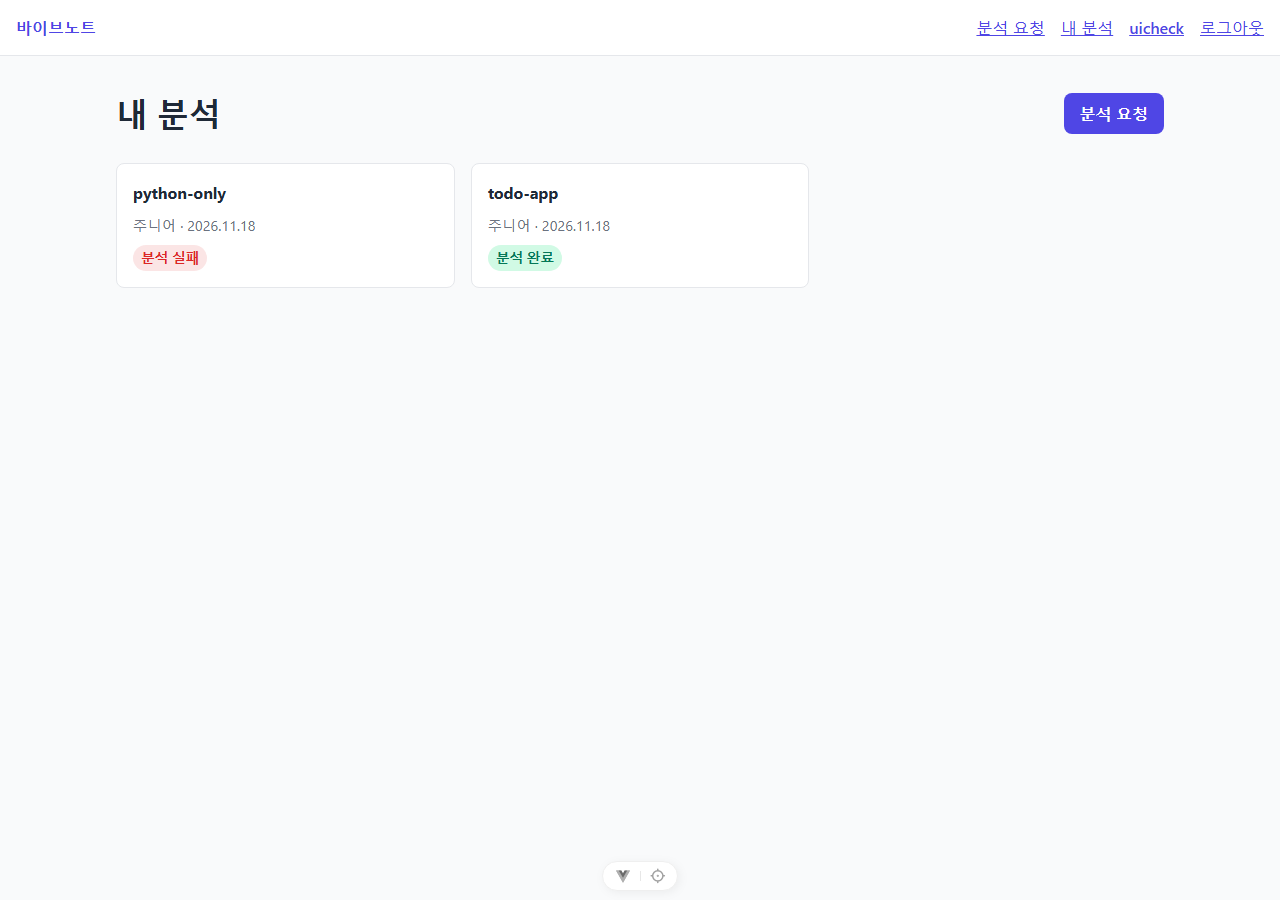
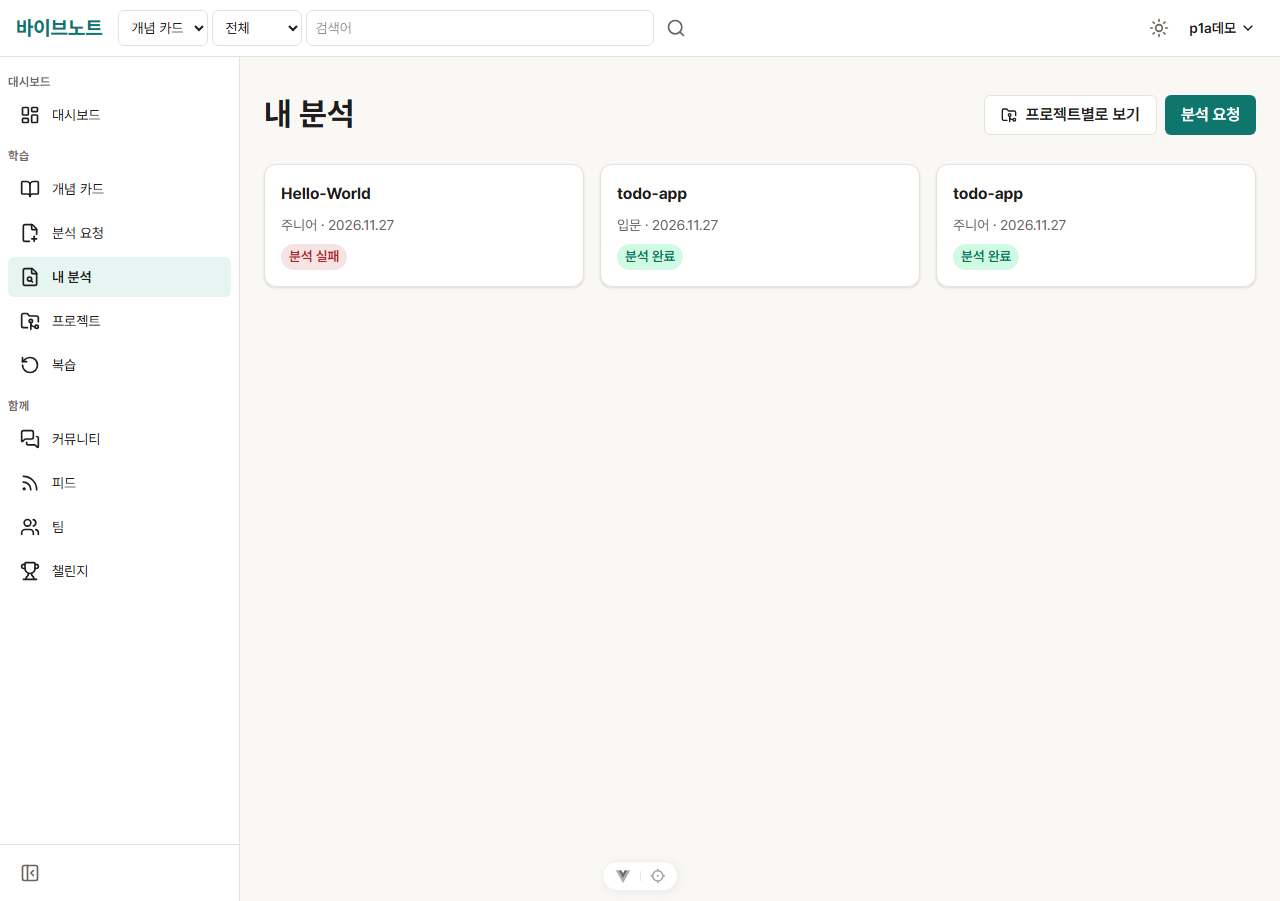
docs(P-1a): 화면 설계서 스크린샷 SC-25·26·SC-05·06·07 (ui-verifier)

diff --git a/docs/산출물/06-화면설계서.md b/docs/산출물/06-화면설계서.md
@@ -212,6 +212,7 @@ flowchart LR
 | <img src="screens/SC-05-request-desktop.png" width="480"> | <img src="screens/SC-05-request-mobile.png" width="200"> |
 | <img src="screens/SC-05-request-url-desktop.png" width="480"> | <img src="screens/SC-05-request-url-mobile.png" width="200"> |
 | <img src="screens/SC-05-request-gms-desktop.png" width="480"> | <img src="screens/SC-05-request-gms-mobile.png" width="200"> |
+| <img src="screens/SC-05-request-project-desktop.png" width="480"> (저장소 프로젝트 새 버전 `?projectId=`, P-1a) | <img src="screens/SC-05-request-project-mobile.png" width="200"> |
 
 ### SC-06 내 분석 목록 (`/analyses`, F-05a · 공개 배지·메모 F-19)
 
@@ -269,6 +270,7 @@ flowchart LR
 | 다른 회원 열람 | <img src="screens/SC-07-public-view-desktop.png" width="480"> | <img src="screens/SC-07-public-view-mobile.png" width="200"> |
 | SC-06 공개 배지·메모 | <img src="screens/SC-06-list-public-desktop.png" width="480"> | <img src="screens/SC-06-list-public-mobile.png" width="200"> |
 | 참여 중인 챌린지 (#211) | <img src="screens/SC-07-challenge-progress-desktop.png" width="480"> | <img src="screens/SC-07-challenge-progress-mobile.png" width="200"> |
+| 프로젝트·버전 링크 (P-1a AC16, Tailwind 이전 뒤) | <img src="screens/SC-07-project-link-desktop.png" width="480"> | <img src="screens/SC-07-project-link-mobile.png" width="200"> |
 
 ### SC-07 분석 결과 — 구조 탭 (`/analyses/:id?tab=structure`, F-21a)
 
@@ -784,6 +786,11 @@ flowchart LR
 - 상태별 UI: 로딩 / 빈 목록 "아직 분석한 프로젝트가 없어요" + "첫 분석 요청하기"(SC-05) / 에러는 서버 문구 + "다시 시도"
 - 동작: 카드를 누르면 SC-26. 진입은 메뉴 학습 > "프로젝트"(옆 메뉴·드로어)와 SC-06 "프로젝트별로 보기"
 - 모바일: 카드 한 열(640px 이상 두 열, 1024px 이상 세 열)
+- 스크린샷: local·mock LLM 데모 데이터(ZIP 프로젝트 v1·v2, 저장소 프로젝트 `octocat/Hello-World`). ui-verifier 375px 가로 넘침 없음
+
+| 데스크톱 (1280px) | 모바일 (375px) |
+|---|---|
+| <img src="screens/SC-25-projects-desktop.png" width="480"> | <img src="screens/SC-25-projects-mobile.png" width="200"> |
 
 ### SC-26 프로젝트 상세 (`/projects/:id`, P-1a)
 
@@ -793,6 +800,11 @@ flowchart LR
 - 이름 바꾸기: 제목 자리에 입력 칸(100자) + "저장"·"취소". 앞뒤 공백을 떼고 비면 저장 비활성, 400 `details.name`은 칸 아래, 그 밖의 실패는 서버 문구. 분석 제목은 바뀌지 않는다
 - 상태별 UI: 로딩 / 404(없음·남의 것·분석 모두 삭제) "프로젝트를 찾을 수 없어요." / 에러는 서버 문구 + "다시 시도"
 - 모바일: 버튼·배지는 줄바꿈되고 분석 칩은 감싸며 흐른다
+
+| 데스크톱 (1280px) | 모바일 (375px) |
+|---|---|
+| <img src="screens/SC-26-project-repo-desktop.png" width="480"> (저장소: 배지 UP_TO_DATE, 커밋 v1) | <img src="screens/SC-26-project-repo-mobile.png" width="200"> |
+| <img src="screens/SC-26-project-zip-desktop.png" width="480"> (ZIP: v2·v1 커밋 정보 없음) | <img src="screens/SC-26-project-zip-mobile.png" width="200"> |
 
 ### SC-20·21 관리자 공통 레이아웃 (`/admin`, F-00b)
 

diff --git a/docs/specs/P-1a-project-versions.md b/docs/specs/P-1a-project-versions.md
@@ -257,9 +257,9 @@ ALTER TABLE analyses MODIFY project_id BIGINT NOT NULL;
 - [x] BE 구현 (green): 요청 묶기(AC1·4·5 ✅) → FETCHING 커밋 조회·버전(AC2·3·11 ✅) → 프로젝트 API·배지(AC6~10 ✅) → AC12 ✅ (BE 끝)
 - [x] FE 구현 (green): AC14·15·16 ✅, 고친 화면(요청·상세·목록) Tailwind·`useLatestRequest` 이전(#250)
 - [x] Swagger 어노테이션 + `docs/api/openapi.json` 갱신
-- [ ] contract-checker 통과
-- [ ] ui-verifier 통과 (FE 변경 시, 데스크톱·모바일)
-- [ ] reviewer 지적 사항 반영
-- [x] 산출물 반영 (ERD 03, 화면 설계서 06 SC-25·26, 요구사항 정의서 01 P-1a 행. 스크린샷은 ui-verifier 뒤)
+- [x] contract-checker 통과 (경미 3건 반영)
+- [x] ui-verifier 통과 (FE 변경 시, 데스크톱·모바일) — 7개 라우트 문제 0건
+- [x] reviewer 지적 사항 반영 (반드시 수정 0, 권장 5건 반영·2건 #257·#250)
+- [x] 산출물 반영 (ERD 03, 화면 설계서 06 SC-25·26, 요구사항 정의서 01 P-1a 행, 스크린샷 SC-05·06·07·25·26)
 - [ ] PR CI 초록, 셸 내비 변경 @JoonseobKim 멘션
 - [ ] 상태 DONE (PR 머지 후)
